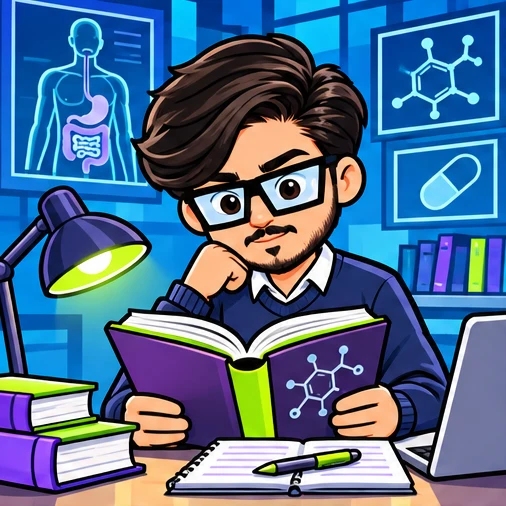
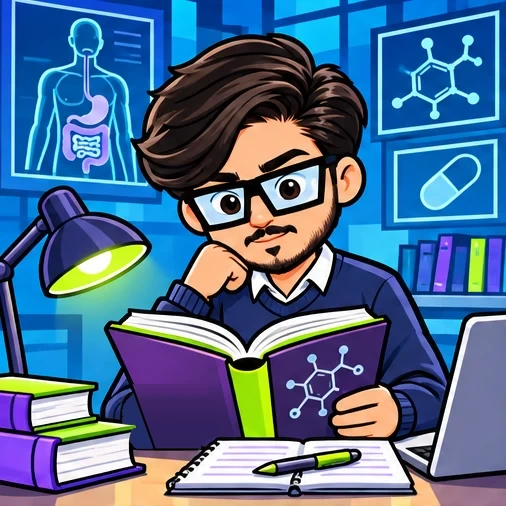
fix(website): remove extra hand from story image; story auto-plays in a loop
- story-study.webp: painted out the third hand on the book
- Story chapters now advance automatically every 3.5s and loop forever
  (pauses on hover, Pause/Play button, Previous/Next wrap around)

Claude-Session: https://claude.ai/code/session_012ChB4JX8sg5ysaqyof1txP

Changed region(s): [[0.2372, 0.7411, 0.415, 0.8893]]

diff --git a/client/public/site/app.js b/client/public/site/app.js
@@ -341,8 +341,10 @@ const chapters=[
   {id:'launch',tab:'Launch',title:'Preparing the medicine for launch',alt:'Pharmacist presenting a generic medicine carton and blister pack',copy:'After the required reviews and approvals, the team prepares the packaging and patient information so people can identify and use the medicine correctly.'},
   {id:'body',tab:'In the body',title:'From swallowing to an effect',alt:'Conceptual diagram of the digestive tract, bloodstream and a drug binding to a receptor',copy:'Many swallowed medicines are absorbed in the small intestine. After entering the blood, an ingredient can reach a target such as a receptor and change how cells respond. The route and target depend on the medicine.'}
 ];
-let chapter=0, storyTimer=null;
-const chapterButtons=chapters.map(({tab},index)=>btn(tab,()=>{stopStory();showChapter(index);}));
+// The story plays automatically and loops forever; the button pauses/resumes it.
+const STORY_DELAY=3500;
+let chapter=0, storyTimer=null, storyPaused=false;
+const chapterButtons=chapters.map(({tab},index)=>btn(tab,()=>{showChapter(index);restartStory();}));
 $('story-steps').append(...chapterButtons);
 function showChapter(index){
   chapter=index;
@@ -354,33 +356,36 @@ function showChapter(index){
   $('story-title').textContent=current.title;
   $('story-copy').textContent=current.copy;
   $('story-source').hidden=current.id!=='body';
-  $('story-back').disabled=index===0;
-  $('story-next').disabled=index===chapters.length-1;
   chapterButtons.forEach((button,position)=>button.setAttribute('aria-pressed',String(position===index)));
   const frame=$('story-frame');
   frame.classList.remove('enter');
   requestAnimationFrame(()=>requestAnimationFrame(()=>frame.classList.add('enter')));
 }
+function startStory(){
+  clearInterval(storyTimer);
+  storyTimer=setInterval(()=>showChapter((chapter+1)%chapters.length),STORY_DELAY);
+}
 function stopStory(){
   clearInterval(storyTimer);
   storyTimer=null;
-  $('story-play').textContent='Play story';
-  $('story-play').setAttribute('aria-pressed','false');
 }
-$('story-back').onclick=()=>{stopStory();if(chapter>0)showChapter(chapter-1);};
-$('story-next').onclick=()=>{stopStory();if(chapter<chapters.length-1)showChapter(chapter+1);};
-$('story-play').onclick=()=>{
-  if(storyTimer){stopStory();return;}
-  if(chapter===chapters.length-1)showChapter(0);
-  $('story-play').textContent='Pause story';
-  $('story-play').setAttribute('aria-pressed','true');
-  storyTimer=setInterval(()=>{
-    if(chapter===chapters.length-1){stopStory();return;}
-    showChapter(chapter+1);
-  },6500);
-};
-document.addEventListener('visibilitychange',()=>{if(document.hidden)stopStory();});
+// After a manual change, keep looping but give the reader a full interval on that chapter.
+function restartStory(){if(!storyPaused&&!document.hidden)startStory();}
+function setStoryPaused(paused){
+  storyPaused=paused;
+  $('story-play').textContent=paused?'Play story':'Pause story';
+  $('story-play').setAttribute('aria-pressed',String(!paused));
+  paused?stopStory():startStory();
+}
+$('story-back').onclick=()=>{showChapter((chapter-1+chapters.length)%chapters.length);restartStory();};
+$('story-next').onclick=()=>{showChapter((chapter+1)%chapters.length);restartStory();};
+$('story-play').onclick=()=>setStoryPaused(!storyPaused);
+// Hold the current chapter while the reader hovers over it, then carry on.
+$('story-frame').addEventListener('mouseenter',()=>{if(!storyPaused)stopStory();});
+$('story-frame').addEventListener('mouseleave',restartStory);
+document.addEventListener('visibilitychange',()=>{document.hidden?stopStory():restartStory();});
 showChapter(0);
+setStoryPaused(false);
 
 function openChatbook(){
   const transcript=document.createElement('div');
